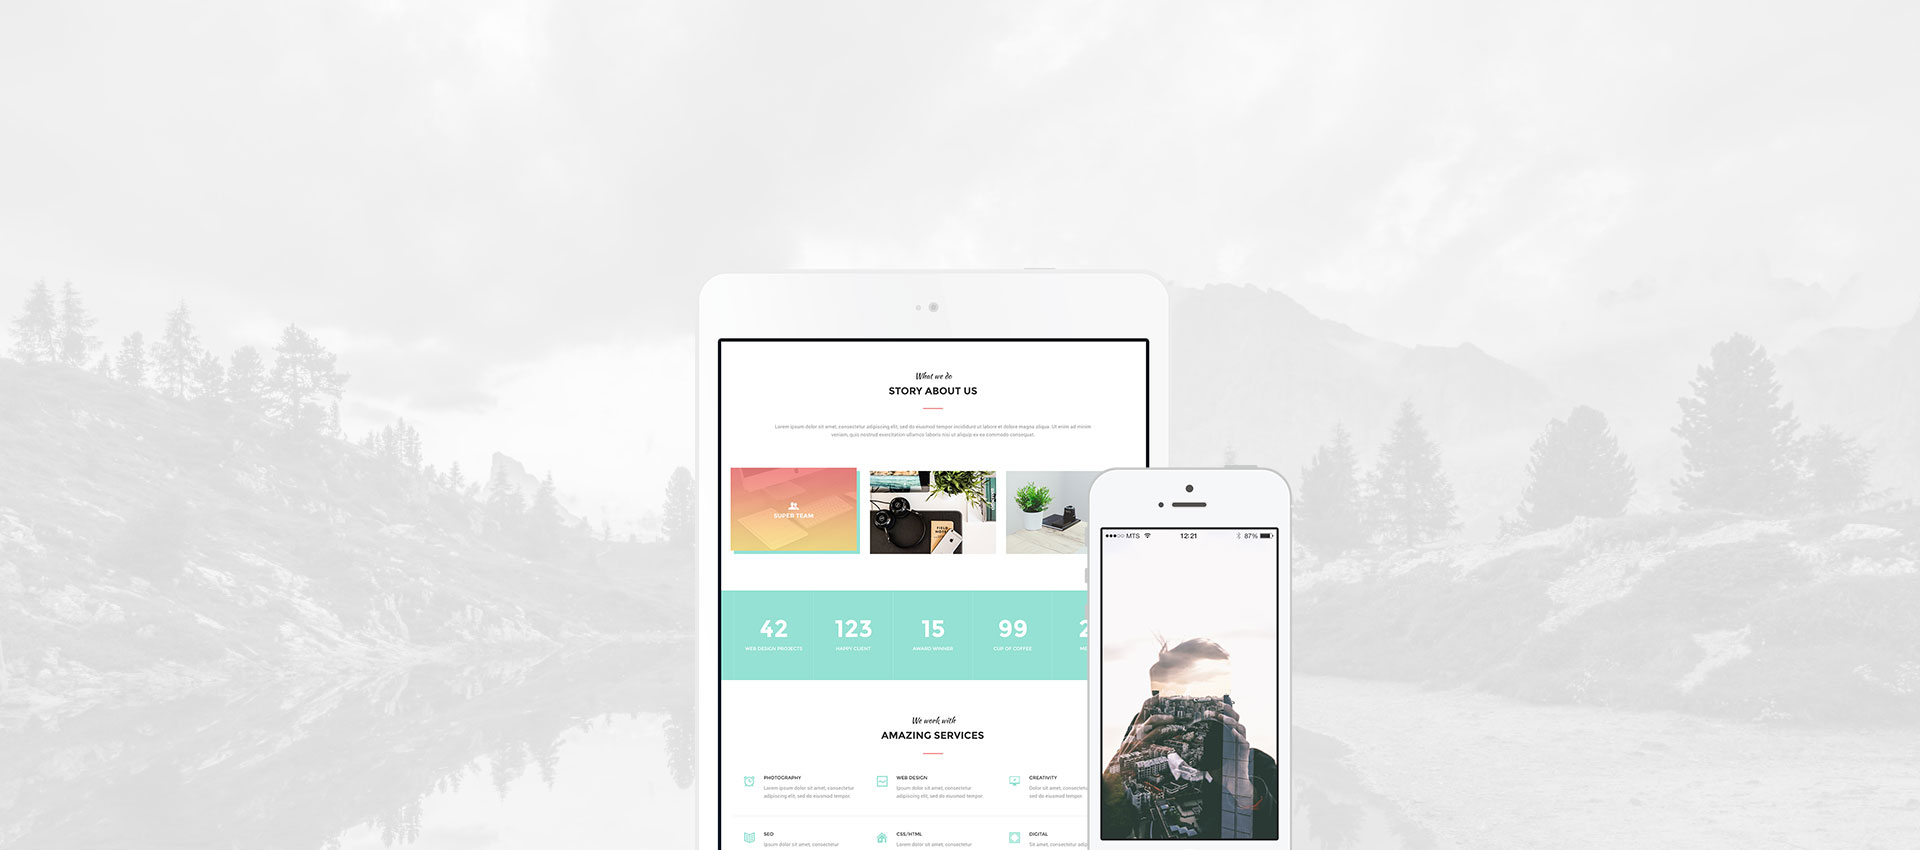
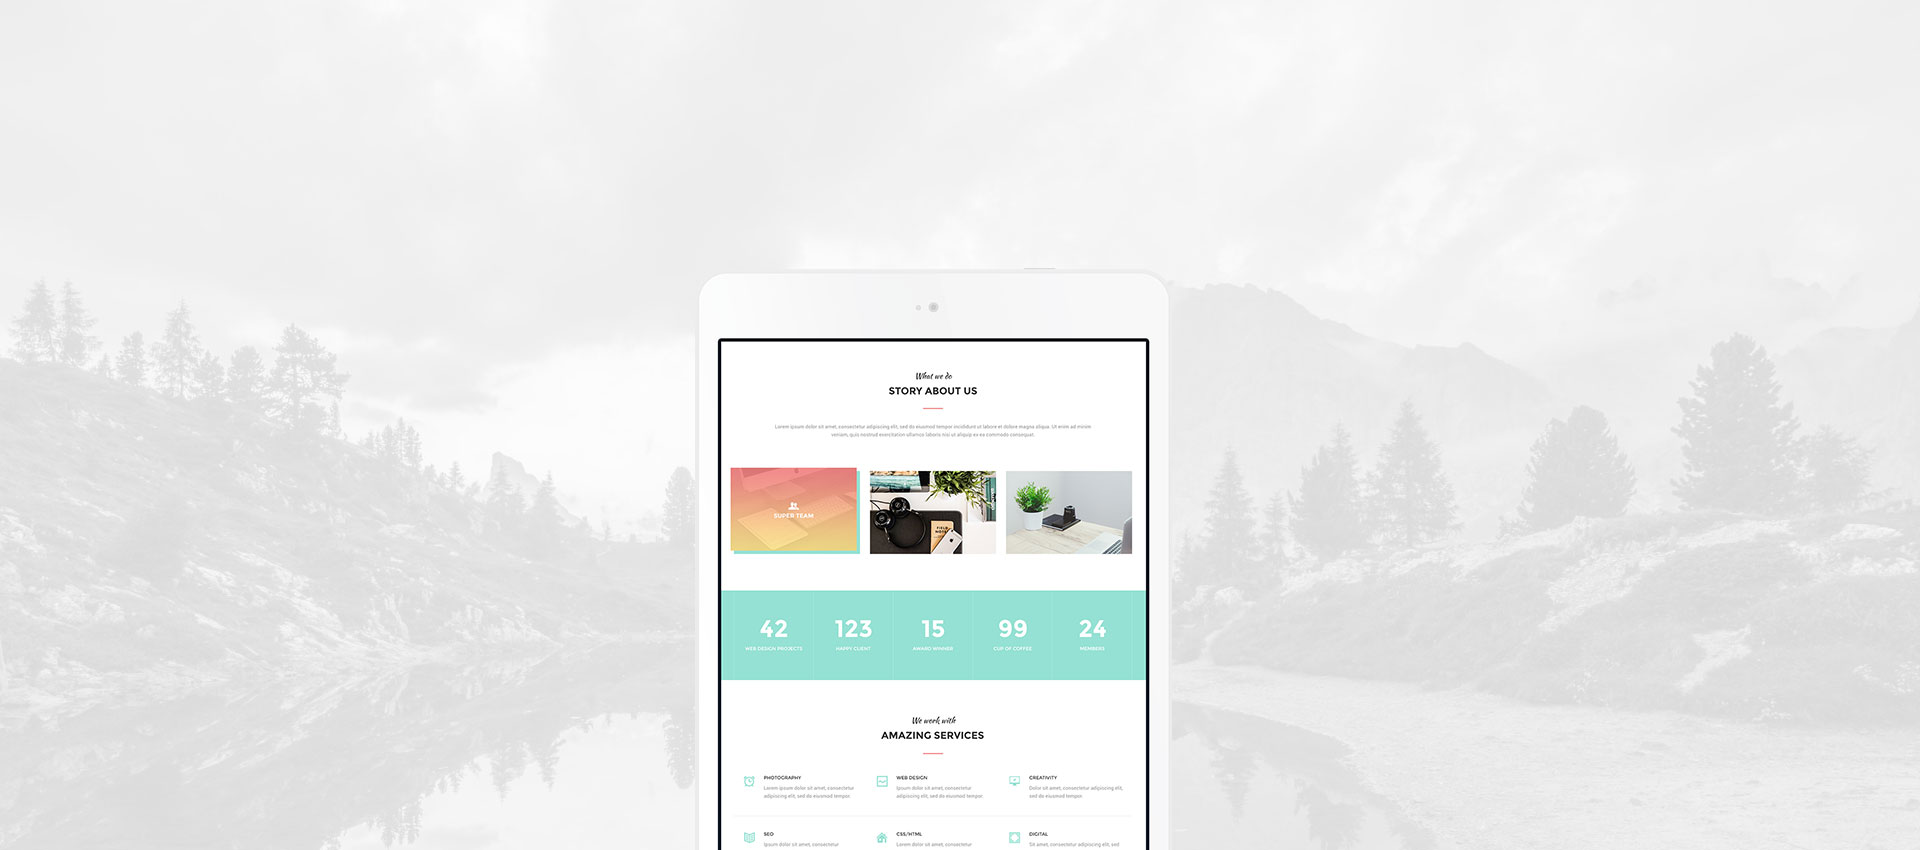
what we do block

Changed region(s): [[0.5625, 0.5506, 0.6875, 1.0]]

diff --git a/index.html b/index.html
@@ -7,7 +7,7 @@
   <meta http-equiv="X-UA-Compatible" content="ie=edge">
   <title>Mogo</title>
   <link rel="stylesheet" href="assets/css/style.css">
-  <link href="https://fonts.googleapis.com/css?family=Kaushan+Script|Montserrat:400,700&display=swap" rel="stylesheet">
+  <link href="https://fonts.googleapis.com/css?family=Kaushan+Script|Montserrat:300i,400,700&display=swap" rel="stylesheet">
 </head>
 
 <body>
@@ -172,19 +172,80 @@
           <h3>For all devices</h3>
           <h2>Unique design</h2>
         </div>
+
       </div>
+      <div class="smartphone"><img src="assets\images\White.png" alt=""></div>
     </div>
-    <!-- / UNIQUE DESIGN -->
-    <footer>
-      <div class="container">
-        <div class="copywrite">
-          <p>© 2016 MoGo free PSD tempalte by <span>Laaqiq</span></p>
+  </section>
+  <!-- / UNIQUE DESIGN -->
+  <section>
+    <div class="container">
+      <div class="section-header">
+        <h3>Sevice</h3>
+        <h2>What we do</h2>
+        <div>
+          <p>Lorem ipsum dolor sit amet, consectetur adipisicing elit. Facilis incidunt fugiat quas quis et deserunt, molestias assumenda rem eos, quaerat dolorem hic laborum non minus minima sapiente ea voluptate sunt.</p>
         </div>
       </div>
-    </footer>
-    <!-- / FOOTER -->
-  </section>
-
+      <div class="we-do">
+        <div class="we-do-item">
+          <img src="assets\images\Background-3.jpg" alt="">
+        </div>
+        <div class="we-do-item">
+        <div class="accordion">
+          <div class="accordion-item active">
+            <div class="accordion-header">
+              <svg xmlns="http://www.w3.org/2000/svg" xmlns:xlink="http://www.w3.org/1999/xlink" width="30px" height="30px">
+                <path fill-rule="evenodd" fill="rgb(149, 225, 211)"
+                  d="M30.000,23.999 C30.000,24.650 29.581,25.199 29.000,25.406 L29.000,27.089 C29.581,27.296 30.000,27.846 30.000,28.498 C30.000,29.326 29.328,29.999 28.500,29.999 C27.848,29.999 27.298,29.579 27.092,28.998 L25.408,28.998 C25.201,29.579 24.652,29.999 24.000,29.999 C23.348,29.999 22.798,29.579 22.592,28.998 L20.908,28.998 C20.701,29.579 20.152,29.999 19.500,29.999 C18.848,29.999 18.299,29.579 18.092,28.998 L16.408,28.998 C16.201,29.579 15.652,29.999 15.000,29.999 C14.348,29.999 13.798,29.579 13.592,28.998 L11.908,28.998 C11.702,29.579 11.152,29.999 10.500,29.999 C9.848,29.999 9.298,29.579 9.092,28.998 L7.408,28.998 C7.202,29.579 6.652,29.999 6.000,29.999 C5.348,29.999 4.798,29.579 4.592,28.998 L2.908,28.998 C2.701,29.579 2.152,29.999 1.500,29.999 C0.672,29.999 -0.000,29.326 -0.000,28.498 C-0.000,27.846 0.419,27.296 1.000,27.089 L1.000,25.406 C0.419,25.199 -0.000,24.650 -0.000,23.999 C-0.000,23.345 0.419,22.797 1.000,22.590 L1.000,20.907 C0.419,20.699 -0.000,20.150 -0.000,19.498 C-0.000,18.847 0.419,18.297 1.000,18.090 L1.000,16.406 C0.419,16.200 -0.000,15.651 -0.000,14.999 C-0.000,14.347 0.419,13.797 1.000,13.589 L1.000,11.906 C0.419,11.700 -0.000,11.151 -0.000,10.498 C-0.000,9.846 0.419,9.296 1.000,9.091 L1.000,7.406 C0.419,7.199 -0.000,6.650 -0.000,5.998 C-0.000,5.346 0.419,4.796 1.000,4.590 L1.000,2.905 C0.419,2.700 -0.000,2.150 -0.000,1.498 C-0.000,0.669 0.672,-0.001 1.500,-0.001 C2.152,-0.001 2.701,0.416 2.908,0.999 L4.592,0.999 C4.798,0.416 5.348,-0.001 6.000,-0.001 C6.652,-0.001 7.202,0.416 7.408,0.999 L9.092,0.999 C9.298,0.416 9.848,-0.001 10.500,-0.001 C11.152,-0.001 11.702,0.416 11.908,0.999 L13.592,0.999 C13.798,0.416 14.348,-0.001 15.000,-0.001 C15.652,-0.001 16.201,0.416 16.408,0.999 L18.092,0.999 C18.299,0.416 18.848,-0.001 19.500,-0.001 C20.152,-0.001 20.701,0.416 20.908,0.999 L22.592,0.999 C22.798,0.416 23.348,-0.001 24.000,-0.001 C24.652,-0.001 25.201,0.416 25.408,0.999 L27.092,0.999 C27.298,0.416 27.848,-0.001 28.500,-0.001 C29.328,-0.001 30.000,0.669 30.000,1.498 C30.000,2.150 29.581,2.700 29.000,2.905 L29.000,4.590 C29.581,4.796 30.000,5.346 30.000,5.998 C30.000,6.650 29.581,7.199 29.000,7.406 L29.000,9.091 C29.581,9.296 30.000,9.846 30.000,10.498 C30.000,11.151 29.581,11.700 29.000,11.906 L29.000,13.589 C29.581,13.797 30.000,14.347 30.000,14.999 C30.000,15.651 29.581,16.200 29.000,16.406 L29.000,18.090 C29.581,18.297 30.000,18.847 30.000,19.498 C30.000,20.150 29.581,20.699 29.000,20.907 L29.000,22.590 C29.581,22.797 30.000,23.345 30.000,23.999 ZM26.000,3.997 L4.000,3.997 L4.000,25.998 L26.000,25.998 L26.000,3.997 ZM13.000,19.998 L20.000,11.499 L24.500,18.499 L24.500,24.498 L5.500,24.498 L11.500,18.499 L13.000,19.998 ZM10.000,12.998 C8.343,12.998 7.000,11.655 7.000,9.997 C7.000,8.340 8.343,6.998 10.000,6.998 C11.657,6.998 13.000,8.340 13.000,9.997 C13.000,11.655 11.657,12.998 10.000,12.998 Z" />
+              </svg>
+              <p>Photography</p>
+            </div>
+            <div class="accordion-content">
+              <p>Lorem ipsum dolor sit amet, consectetur adipiscing elit, sed do eiusmod tempor incididunt ut labore et dolore magna aliqua. Ut enim ad minim veniam, quis nostrud exercitation ullamco laboris nisi ut aliquip ex ea commodo consequat.
+                Duis aute irure dolor in reprehenderit in voluptate velit esse cillum dolore eu fugiat nulla pariatur. Excepteur sint occaecat cupidatat non proident, sunt in culpa qui officia deserunt mollit anim id est laborum.</p>
+            </div>
+          </div>
+          <div class="accordion-item">
+            <div class="accordion-header">
+              <svg xmlns="http://www.w3.org/2000/svg" xmlns:xlink="http://www.w3.org/1999/xlink" width="28px" height="32px">
+                <path fill-rule="evenodd" fill="rgb(149, 225, 211)"
+                  d="M26.500,16.497 L23.500,16.497 C22.672,16.497 22.000,15.827 22.000,14.998 L22.000,8.998 C22.000,8.170 22.672,7.499 23.500,7.499 L26.500,7.499 C27.328,7.499 28.000,8.170 28.000,8.998 L28.000,14.998 C28.000,15.827 27.328,16.497 26.500,16.497 ZM23.500,1.497 C23.500,0.669 24.172,-0.002 25.000,-0.002 C25.828,-0.002 26.500,0.669 26.500,1.497 L26.500,5.998 L23.500,5.998 L23.500,1.497 ZM15.500,24.497 L12.500,24.497 C11.672,24.497 11.000,23.827 11.000,22.998 L11.000,16.998 C11.000,16.170 11.672,15.498 12.500,15.498 L15.500,15.498 C16.328,15.498 17.000,16.170 17.000,16.998 L17.000,22.998 C17.000,23.827 16.328,24.497 15.500,24.497 ZM12.500,1.497 C12.500,0.669 13.172,-0.002 14.000,-0.002 C14.828,-0.002 15.500,0.669 15.500,1.497 L15.500,13.998 L12.500,13.998 L12.500,1.497 ZM4.500,20.498 L1.500,20.498 C0.672,20.498 -0.000,19.826 -0.000,18.997 L-0.000,12.997 C-0.000,12.169 0.672,11.498 1.500,11.498 L4.500,11.498 C5.328,11.498 6.000,12.169 6.000,12.997 L6.000,18.997 C6.000,19.826 5.328,20.498 4.500,20.498 ZM1.500,1.497 C1.500,0.669 2.172,-0.002 3.000,-0.002 C3.828,-0.002 4.500,0.669 4.500,1.497 L4.500,9.999 L1.500,9.999 L1.500,1.497 ZM4.500,30.497 C4.500,31.326 3.828,31.998 3.000,31.998 C2.172,31.998 1.500,31.326 1.500,30.497 L1.500,21.998 L4.500,21.998 L4.500,30.497 ZM15.500,30.497 C15.500,31.326 14.828,31.998 14.000,31.998 C13.172,31.998 12.500,31.326 12.500,30.497 L12.500,25.997 L15.500,25.997 L15.500,30.497 ZM26.500,30.497 C26.500,31.326 25.828,31.998 25.000,31.998 C24.172,31.998 23.500,31.326 23.500,30.497 L23.500,17.999 L26.500,17.999 L26.500,30.497 Z" />
+              </svg>
+              <p>Creativity</p>
+            </div>
+            <div class="accordion-content">
+              <p>Lorem ipsum dolor sit amet, consectetur adipiscing elit, sed do eiusmod tempor incididunt ut labore et dolore magna aliqua. Ut enim ad minim veniam, quis nostrud exercitation ullamco laboris nisi ut aliquip ex ea commodo consequat.
+                Duis aute irure dolor in reprehenderit in voluptate velit esse cillum dolore eu fugiat nulla pariatur. Excepteur sint occaecat cupidatat non proident, sunt in culpa qui officia deserunt mollit anim id est laborum.</p>
+            </div>
+          </div>
+          <div class="accordion-item">
+            <div class="accordion-header">
+              <svg xmlns="http://www.w3.org/2000/svg" xmlns:xlink="http://www.w3.org/1999/xlink" width="32px" height="32px">
+                <path fill-rule="evenodd" fill="rgb(149, 225, 211)"
+                  d="M16.000,31.998 C7.164,31.998 -0.000,24.835 -0.000,15.997 C-0.000,7.162 7.164,-0.002 16.000,-0.002 C24.837,-0.002 32.000,7.162 32.000,15.997 C32.000,24.835 24.837,31.998 16.000,31.998 ZM16.000,2.998 C8.820,2.998 3.000,8.818 3.000,15.997 C3.000,23.177 8.820,28.998 16.000,28.998 C23.180,28.998 29.000,23.177 29.000,15.997 C29.000,8.818 23.180,2.998 16.000,2.998 ZM16.000,25.497 C10.753,25.497 6.500,21.244 6.500,15.997 C6.500,10.752 10.753,6.498 16.000,6.498 C21.247,6.498 25.500,10.752 25.500,15.997 C25.500,21.244 21.247,25.497 16.000,25.497 ZM16.000,9.498 C12.410,9.498 9.500,12.408 9.500,15.997 C9.500,19.587 12.410,22.499 16.000,22.499 C19.590,22.499 22.500,19.587 22.500,15.997 C22.500,12.408 19.590,9.498 16.000,9.498 ZM16.000,18.999 C14.343,18.999 13.000,17.655 13.000,15.997 C13.000,14.341 14.343,12.999 16.000,12.999 C17.657,12.999 19.000,14.341 19.000,15.997 C19.000,17.655 17.657,18.999 16.000,18.999 Z" />
+              </svg>
+              <p>Web-design</p>
+            </div>
+            <div class="accordion-content">
+              <p>Lorem ipsum dolor sit amet, consectetur adipiscing elit, sed do eiusmod tempor incididunt ut labore et dolore magna aliqua. Ut enim ad minim veniam, quis nostrud exercitation ullamco laboris nisi ut aliquip ex ea commodo consequat.
+                Duis aute irure dolor in reprehenderit in voluptate velit esse cillum dolore eu fugiat nulla pariatur. Excepteur sint occaecat cupidatat non proident, sunt in culpa qui officia deserunt mollit anim id est laborum.</p>
+            </div>
+          </div>
+        </div>
+      </div>
+      </div>
+      </div>
+      </section>
+      <!-- / WHAT WE DO -->
+      <footer>
+        <div class="container">
+          <div class="copywrite">
+            <p>© 2016 MoGo free PSD tempalte by <span>Laaqiq</span></p>
+          </div>
+        </div>
+  </footer>
+  <!-- / FOOTER -->
 </body>
 
 </html>

diff --git a/assets/css/style.css b/assets/css/style.css
@@ -1,7 +1,6 @@
 body {
   font-family: 'Montserrat', sans-serif;
   font-size: 15px;
-  color: #ffffff;
   line-height: 1.6;
   margin: 0px;
 }
@@ -213,9 +212,7 @@ nav {
   margin-bottom: 110px;
 }
 .section-header {
-
   text-align: center;
-
   width: 85%;
   margin: 0 auto 40px auto;
 }
@@ -223,12 +220,11 @@ nav {
 .section-header h3 {
   font-family: 'Kaushan Script', cursive;
   font-size: 24px;
-  color: black;
+
 }
 
 .section-header h2 {
   font-size: 30px;
-  color: black;
   text-transform: uppercase;
 }
 
@@ -290,6 +286,7 @@ nav {
   transform: translate3d(0, -50, 0);
   width: 100%;
   transition: opacity .1s linear;
+  color: #ffffff;
 }
 
 .about-item:hover .about-text {
@@ -299,7 +296,6 @@ nav {
 /* STAT */
 .stat {
   background-color: #95e1d3;
-
   width: 100%;
 }
 .stat-list {
@@ -309,7 +305,7 @@ nav {
   flex: 1 1 0;
   border-left: 1px solid #b5eae0;
   text-align: center;
-  color: white;
+  color: #e5e5e5;
 }
 .stat-item:last-child {
   border-right: 1px solid #b5eae0;
@@ -341,7 +337,6 @@ nav {
   top: 5px;
 }
 .service-content b {
-  color: black;
   margin-bottom: 15px;
 }
 .line {
@@ -356,24 +351,95 @@ nav {
   height: 100vh;
   background: url("../images/Background-2.jpg") center no-repeat;
   background-size: cover;
+  position: relative;
 }
 .design-header {
   padding-top: 40px;
 }
+.smartphone {
+  position: absolute;
+  left: 56%;
+  top: 43%;
+}
+/* WE_DO */
+.we-do {
+  display: flex;
+}
+.we-do-item {
+  width: 50%;
+}
+.accordion-header {
+    border-bottom: 1px solid transparent;
+    position: relative;
+}
+.accordion-item.active .accordion-header {
+    border-bottom: 1px solid #e5e5e5;
+}
+.accordion-header p{
+  display: inline-block;
+  padding-left: 60px;
+  font-size: 14px;
+  text-transform: uppercase;
+}
+/* КРУТАЯ ФИЧА, СТРЕЛКА С ПОМОЩЬЮ BORDER */
+.accordion-header:after {
+  content: "";
+  display: block;
+  width: 16px;
+  height: 16px;
+  border-top: 2px solid #ccc;
+  border-right: 2px solid #ccc;
+  position: absolute;
+  top: 50%;
+  right: 20px;
+  z-index: 1;
+  transform: translateY(-50%) rotate(135deg);
+  margin-bottom: 5px;
+}
+.accordion-item.active .accordion-header:after {
+    transform: translateY(-50%) rotate(-45deg);
+    margin-top: 5px;
+}
+.accordion-header svg {
+  position: absolute;
+  z-index: 1;
+  left: 15px;
+  top: 50%;
+  transform: translateY(-50%);
+}
+.accordion-item {
+    border: 1px solid #e5e5e5;
+    margin-bottom: 10px;
+}
+.accordion-header:hover {
+  cursor: pointer;
+}
+.accordion-content {
+  font-size: 15px;
+  color: #999999;
+  font-style: italic;
+  font-weight: 300;
+  display: none;
+}
+.accordion-item.active .accordion-content{
+  display: block;
+}
+.accordion-content p {
+  margin: 15px 20px;
+}
+
 /* COPYWRITE */
 .copywrite {
   border-top: 1px solid #e5e5e5;
   width: 100%;
   height: 60px;
-  color: black;
   text-align: center;
 }
 .copywrite span {
   color: #f49090;
-
 }
 /* @MEDIA */
-@media screen and (max-width: 400px) {
+/* @media screen and (max-width: 400px) {
   .intro-title {
     font-size: 8vh;
   }
@@ -399,4 +465,4 @@ nav {
     font-size: 6vh;
   }
 
-}
+} */
